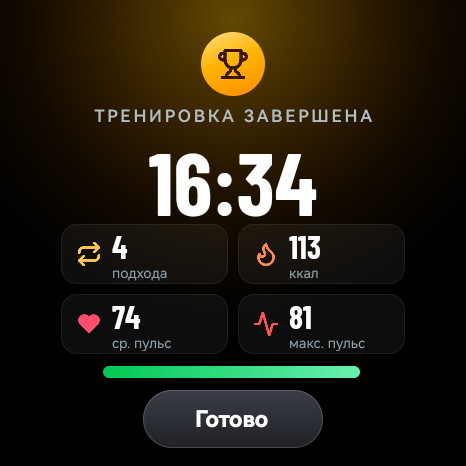
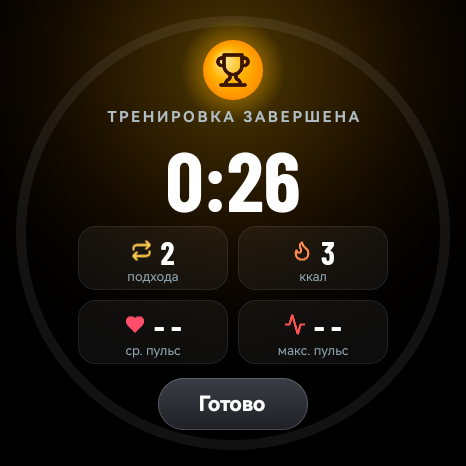
Symmetric summary screen with a heart-rate zone ring
Cards, title, total time and Done are laid out around the screen centre;
the horizontal zone bar is replaced by a ring along the edge whose green /
amber / red arcs are proportional to the time spent in each zone.

diff --git a/api8/entry/src/main/js/MainAbility/common/draw.js b/api8/entry/src/main/js/MainAbility/common/draw.js
@@ -18,7 +18,7 @@ const GLOWS = {
   rest: [[0.5, 0.44, 'rgba(41,121,255,0.34)', 'rgba(0,176,255,0.10)', 0.62]],
   restLate: [[0.5, 0.44, 'rgba(255,160,0,0.30)', 'rgba(41,121,255,0.10)', 0.64]],
   panel: [[0.70, 0.46, 'rgba(255,23,68,0.22)', null, 0.38], [0.5, 0.84, 'rgba(255,171,0,0.16)', null, 0.34]],
-  summary: [[0.5, 0.04, 'rgba(255,193,7,0.38)', 'rgba(255,143,0,0.10)', 0.52]],
+  summary: [[0.5, 0.15, 'rgba(255,193,7,0.30)', 'rgba(255,143,0,0.08)', 0.50]],
   paused: [[0.5, 0.5, 'rgba(144,164,174,0.16)', null, 0.55]]
 };
 
@@ -184,8 +184,65 @@ function drawMenu(ctx) {
 }
 
 /**
+ * Итог: кольцо зон пульса по краю — три дуги (восстановление / рабочая / пиковая),
+ * длина пропорциональна времени в зоне; сверху — подложка кубка.
+ */
+function drawSummary(ctx, zoneMs) {
+  const R = 212;
+  const W = 10;
+  const total = zoneMs ? zoneMs[0] + zoneMs[1] + zoneMs[2] : 0;
+  ctx.lineCap = 'round';
+  ctx.lineWidth = W;
+  ctx.strokeStyle = 'rgba(255,255,255,0.07)';
+  ctx.beginPath();
+  ctx.arc(C, C, R, 0, 2 * Math.PI, false);
+  ctx.stroke();
+  if (total > 0) {
+    const colors = [['#00C853', '#69F0AE', 'rgba(0,230,118,ALPHA)'],
+      ['#FFB300', '#FFD54F', 'rgba(255,171,0,ALPHA)'],
+      ['#FF3D00', '#FF6E40', 'rgba(255,61,0,ALPHA)']];
+    const gap = 0.10;                         // зазор между дугами, рад (с учётом скруглённых концов)
+    const parts = zoneMs.filter((ms) => ms > 0).length;
+    const free = 2 * Math.PI - (parts > 1 ? gap * parts : 0);
+    let a = -Math.PI / 2 + (parts > 1 ? gap / 2 : 0);
+    for (let z = 0; z < 3; z++) {
+      if (zoneMs[z] <= 0) {
+        continue;
+      }
+      const sweep = Math.max(0.0001, free * zoneMs[z] / total - (parts > 1 ? 0 : 0.0001));
+      glowStroke(ctx, a, a + sweep, R, W, colors[z][2]);
+      const g = ctx.createLinearGradient(C - R, C - R, C + R, C + R);
+      g.addColorStop(0, colors[z][1]);
+      g.addColorStop(1, colors[z][0]);
+      ctx.lineWidth = W;
+      ctx.strokeStyle = g;
+      ctx.beginPath();
+      ctx.arc(C, C, R, a, a + sweep, false);
+      ctx.stroke();
+      a += sweep + (parts > 1 ? gap : 0);
+    }
+  }
+  // Подложка кубка (иконка — поверх, в разметке)
+  const halo = ctx.createRadialGradient(C, 70, 26, C, 70, 52);
+  halo.addColorStop(0, 'rgba(255,179,0,0.35)');
+  halo.addColorStop(1, 'rgba(255,179,0,0)');
+  ctx.fillStyle = halo;
+  ctx.beginPath();
+  ctx.arc(C, 70, 52, 0, 2 * Math.PI, false);
+  ctx.fill();
+  const g = ctx.createRadialGradient(C - 9, 60, 4, C, 70, 30);
+  g.addColorStop(0, '#FFE082');
+  g.addColorStop(0.5, '#FFB300');
+  g.addColorStop(1, '#FF8F00');
+  ctx.fillStyle = g;
+  ctx.beginPath();
+  ctx.arc(C, 70, 30, 0, 2 * Math.PI, false);
+  ctx.fill();
+}
+
+/**
  * opts: { scene: 'menu'|'ready'|'set'|'rest'|'restLate'|'panel'|'summary'|'paused',
- *         hrFrac, zone, restProgress, restMarks }
+ *         hrFrac, zone, restProgress, restMarks, zoneMs }
  */
 export function drawScene(ctx, opts) {
   ctx.clearRect(0, 0, 466, 466);
@@ -197,6 +254,10 @@ export function drawScene(ctx, opts) {
   const scene = opts.scene;
   if (scene === 'menu') {
     drawMenu(ctx);
+    return;
+  }
+  if (scene === 'summary') {
+    drawSummary(ctx, opts.zoneMs);
     return;
   }
   if (scene === 'ready' || scene === 'set' || scene === 'paused') {

diff --git a/api8/entry/src/main/js/MainAbility/pages/summary/summary.css b/api8/entry/src/main/js/MainAbility/pages/summary/summary.css
@@ -1,72 +1,77 @@
 @import '../../common/style.css';
 
-.trophy {
-    margin-top: 32px;
-    width: 64px;
+/* Геометрия от центра экрана (233, 233). Карточки 150×64, зазор 10 → блок 310, слева 78. */
+
+.trophy-icon {
+    position: absolute;
+    left: 215px;
+    top: 52px;
+    width: 36px;
+    height: 36px;
+}
+
+.title {
+    position: absolute;
+    left: 0px;
+    top: 106px;
+    width: 466px;
+    height: 22px;
+    font-size: 15px;
+    font-weight: 700;
+    letter-spacing: 3px;
+    color: #B0BEC5;
+    text-align: center;
+}
+
+.total {
+    position: absolute;
+    left: 0px;
+    top: 128px;
+    width: 466px;
+    height: 88px;
+    font-size: 84px;
+    text-align: center;
+}
+
+.cell {
+    position: absolute;
+    width: 150px;
     height: 64px;
-    border-radius: 32px;
-    background: linear-gradient(160deg, #FFE082 0%, #FFB300 45%, #FF8F00 100%);
+    border-radius: 18px;
+    border-width: 1px;
+    border-color: rgba(255, 255, 255, 0.08);
+    background-color: rgba(255, 255, 255, 0.05);
+    flex-direction: column;
     justify-content: center;
     align-items: center;
 }
 
-.trophy-icon {
-    width: 32px;
-    height: 32px;
+.c-left {
+    left: 78px;
 }
 
-.title {
-    margin-top: 8px;
-    height: 24px;
-    font-size: 17px;
-    font-weight: 600;
-    letter-spacing: 3px;
-    color: #B0BEC5;
+.c-right {
+    left: 238px;
 }
 
-.total {
-    height: 92px;
-    font-size: 88px;
+.r-top {
+    top: 226px;
 }
 
-.grid {
-    margin-top: 4px;
-    width: 344px;
-    flex-direction: column;
+.r-bottom {
+    top: 300px;
 }
 
-.row {
-    width: 344px;
-    height: 60px;
-}
-
-.row-gap {
-    margin-top: 10px;
-}
-
-.cell {
-    width: 167px;
-    height: 60px;
-    border-radius: 16px;
-    border-width: 1px;
-    border-color: rgba(255, 255, 255, 0.07);
-    background-color: rgba(255, 255, 255, 0.05);
-    padding-left: 14px;
+.cell-row {
+    height: 36px;
     align-items: center;
-}
-
-.cell-gap {
-    margin-left: 10px;
+    justify-content: center;
 }
 
 .cell-icon {
-    width: 26px;
-    height: 26px;
-    margin-right: 10px;
-}
-
-.cell-col {
-    flex-direction: column;
+    width: 22px;
+    height: 22px;
+    margin-right: 8px;
 }
 
 .cell-val {
@@ -79,48 +84,23 @@
 }
 
 .cell-sub {
-    font-size: 19px;
+    font-size: 18px;
     color: #FFC94D;
 }
 
 .cell-cap {
-    font-size: 14px;
+    font-size: 13px;
     color: #90A4AE;
-}
-
-.zones {
-    margin-top: 12px;
-    width: 260px;
-    height: 12px;
-}
-
-.z {
-    height: 12px;
-    border-radius: 6px;
-    margin-right: 3px;
-}
-
-.z0 {
-    background: linear-gradient(90deg, #00C853 0%, #69F0AE 100%);
-}
-
-.z1 {
-    background: linear-gradient(90deg, #FFB300 0%, #FFD54F 100%);
-}
-
-.z2 {
-    background: linear-gradient(90deg, #FF3D00 0%, #FF6E40 100%);
-}
-
-.zx {
-    background-color: rgba(255, 255, 255, 0.1);
+    text-align: center;
 }
 
 .done {
-    margin-top: 12px;
-    width: 180px;
-    height: 58px;
-    border-radius: 29px;
+    position: absolute;
+    left: 158px;
+    top: 378px;
+    width: 150px;
+    height: 52px;
+    border-radius: 26px;
     border-width: 1px;
     border-color: rgba(255, 255, 255, 0.18);
     background: linear-gradient(180deg, #3A3D45 0%, #1F2126 100%);
@@ -129,7 +109,7 @@
 }
 
 .done-text {
-    font-size: 23px;
+    font-size: 21px;
     font-weight: 800;
     color: #FFFFFF;
 }

diff --git a/api8/entry/src/main/js/MainAbility/pages/summary/summary.js b/api8/entry/src/main/js/MainAbility/pages/summary/summary.js
@@ -10,14 +10,11 @@ export default {
         setsWord: 'подходов',
         kcal: 0,
         hrAvg: '--',
-        hrMax: '--',
-        z0: 0,
-        z1: 0,
-        z2: 0,
-        zEmpty: true
+        hrMax: '--'
     },
 
     onInit() {
+        this.zoneMs = [0, 0, 0];
         const s = this.$app.$def.engine.pendingSummary();
         if (s === null) {
             return;
@@ -29,19 +26,13 @@ export default {
         this.kcal = s.calories;
         this.hrAvg = s.hrAvg > 0 ? '' + s.hrAvg : '- -';
         this.hrMax = s.hrMax > 0 ? '' + s.hrMax : '- -';
-        const all = s.zoneMs[0] + s.zoneMs[1] + s.zoneMs[2];
-        if (all > 0) {
-            this.z0 = Math.round(s.zoneMs[0] * 100 / all);
-            this.z1 = Math.round(s.zoneMs[1] * 100 / all);
-            this.z2 = Math.round(s.zoneMs[2] * 100 / all);
-            this.zEmpty = false;
-        }
+        this.zoneMs = s.zoneMs;
     },
 
     onShow() {
         const cv = this.$refs.bg;
         if (cv) {
-            drawScene(cv.getContext('2d', { antialias: true }), { scene: 'summary' });
+            drawScene(cv.getContext('2d', { antialias: true }), { scene: 'summary', zoneMs: this.zoneMs });
         }
     },
 
